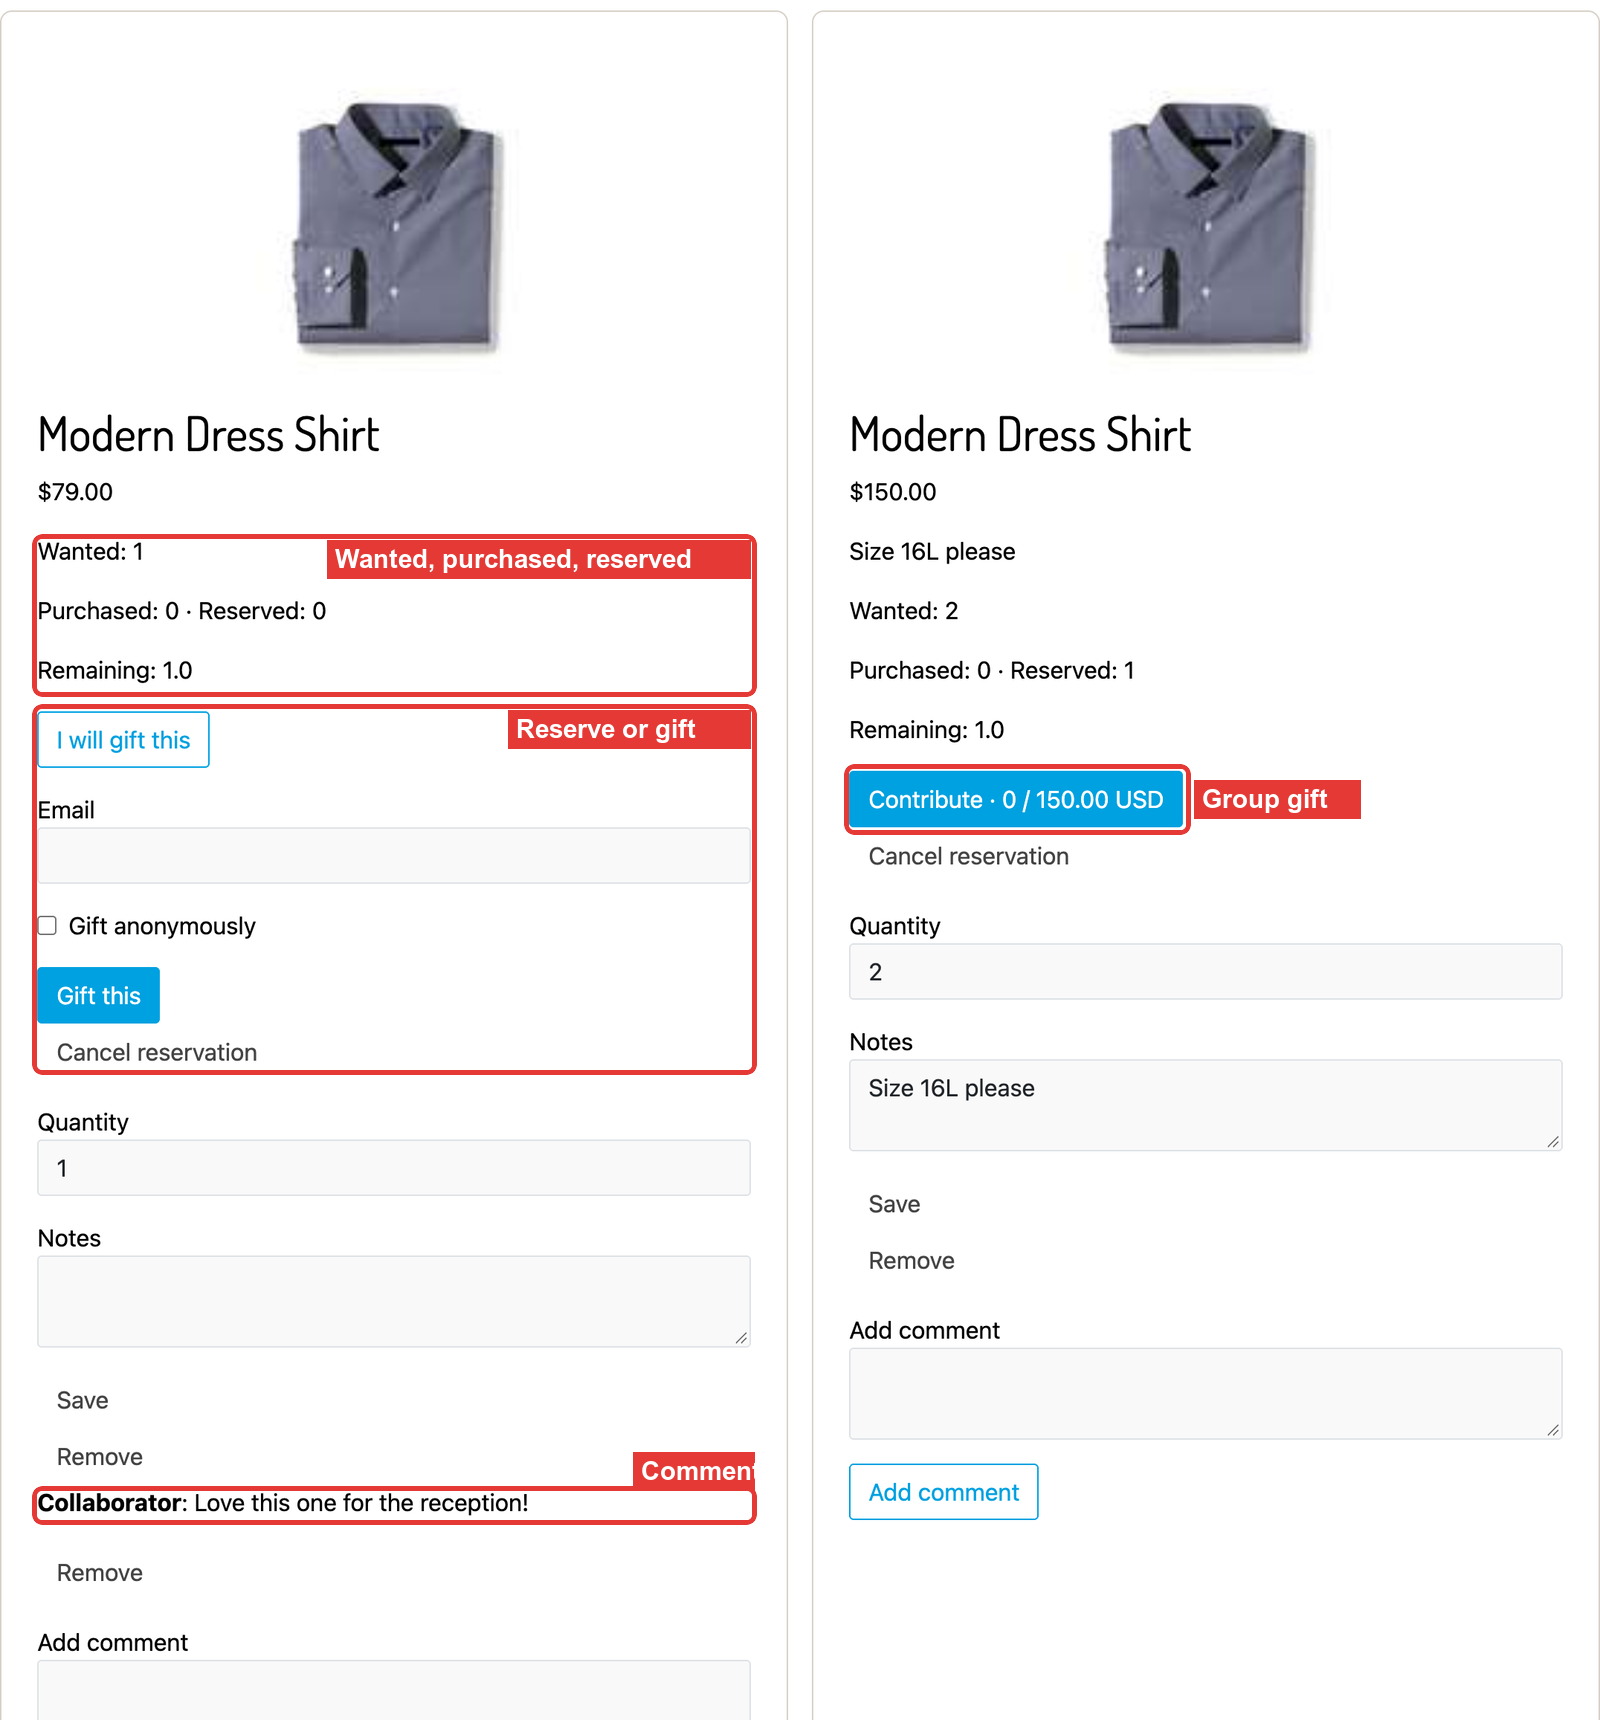
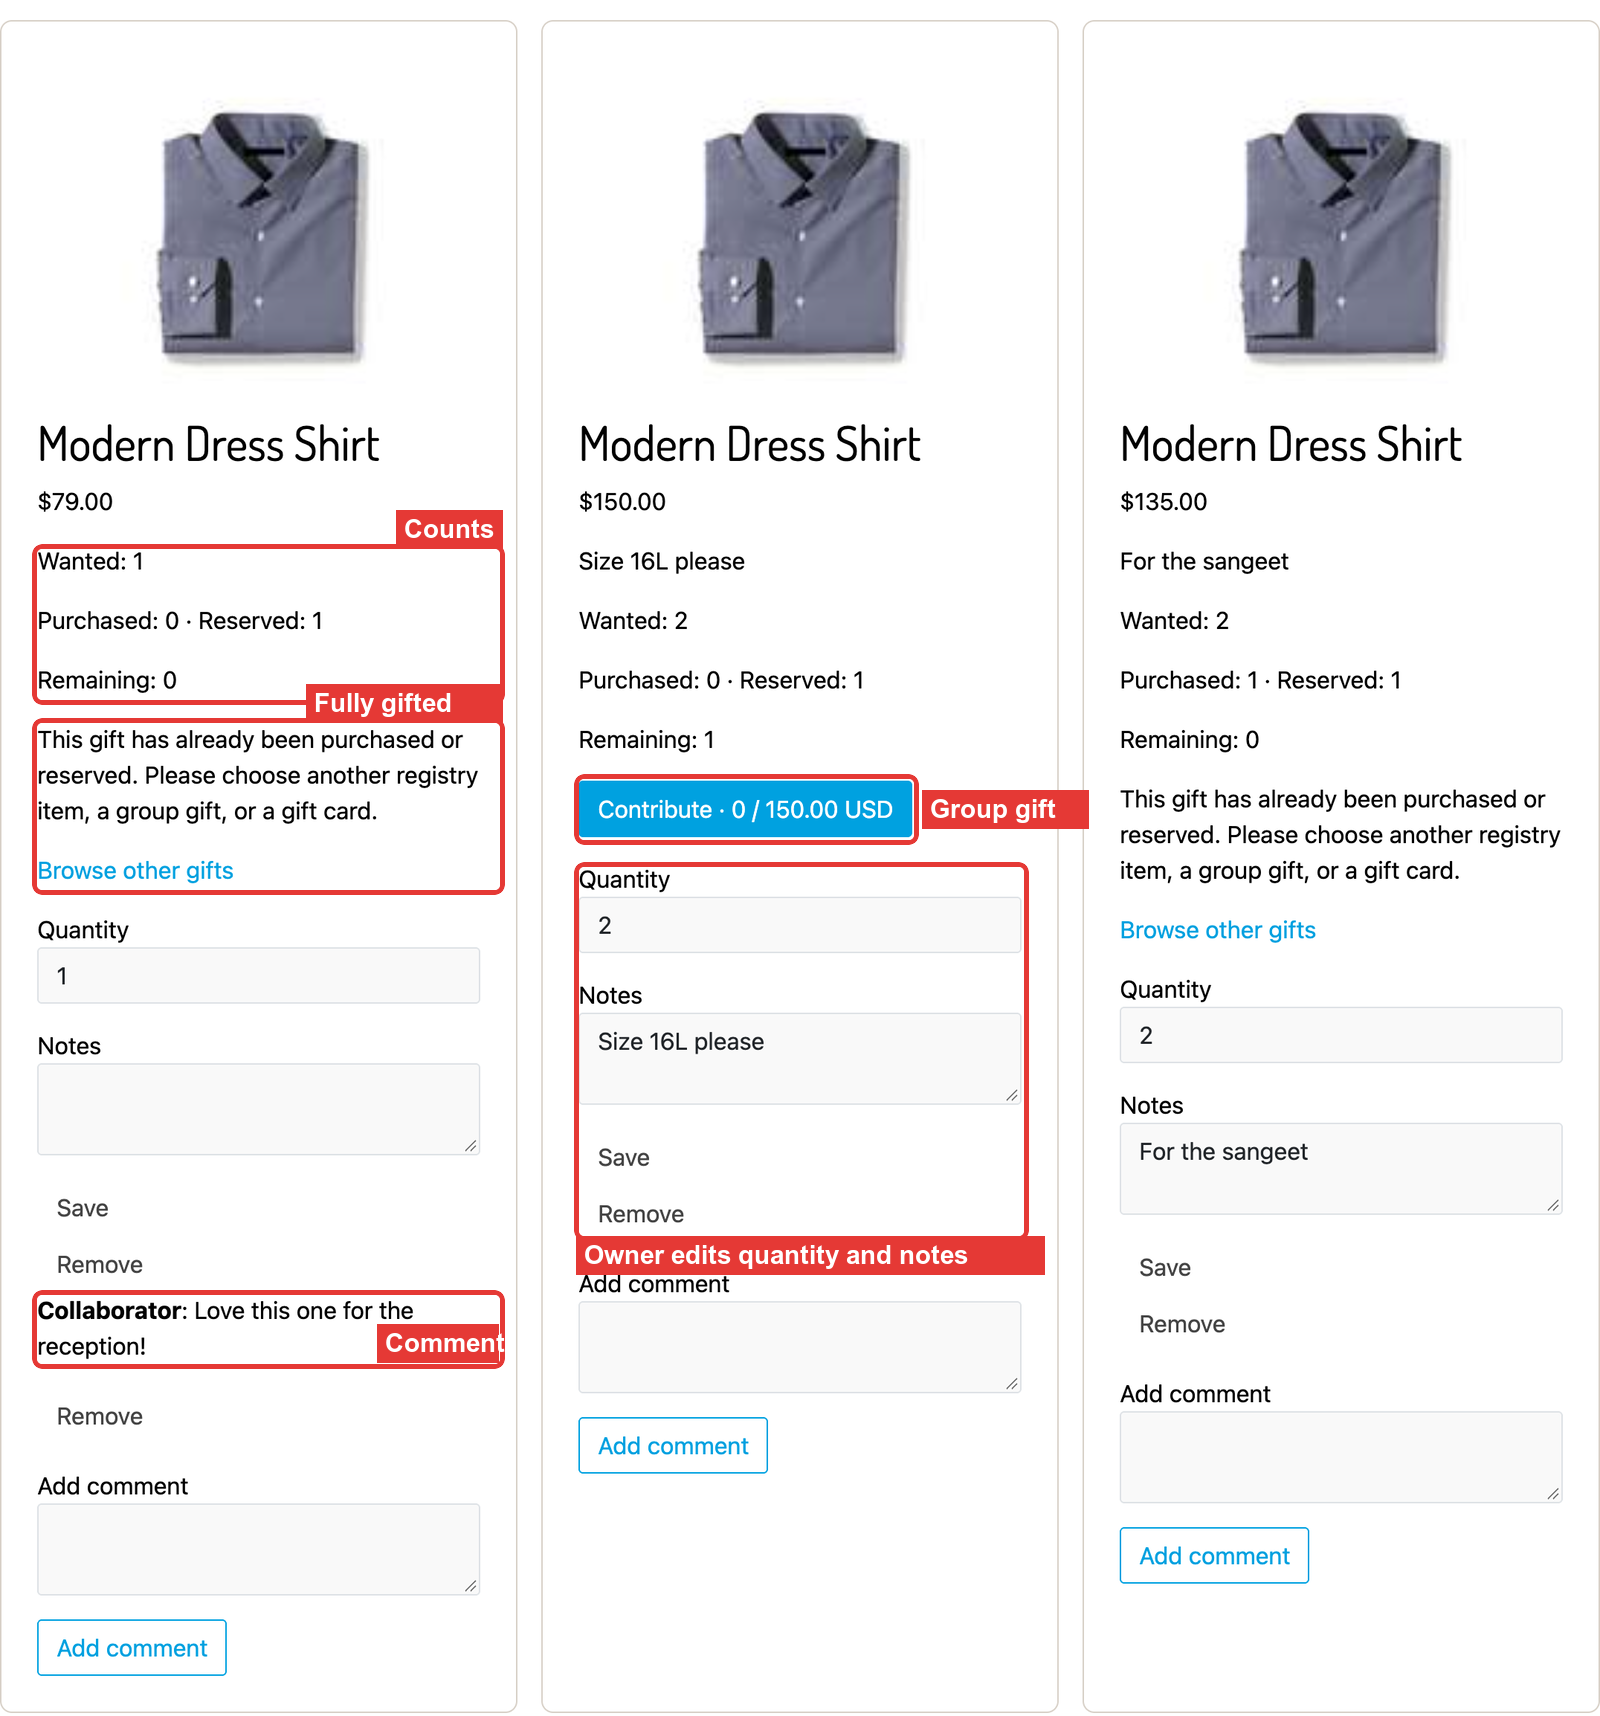
docs: refresh screenshots and verification after the display fixes

diff --git a/README.md b/README.md
@@ -113,7 +113,8 @@ what was asked for.
    ![Add the selected variant to a registry](cartridges/plugin_socialgifting/docs/screenshots/pdp-add-to-registry.png)
 
 2. Owners can also add by product ID from the registry page, with quantity, notes and group gifting.
-   Each item card shows wanted, purchased, reserved and remaining quantities.
+   Each item card shows wanted, purchased, reserved and remaining quantities, and owners edit quantity
+   and notes in place.
 
    ![Registry items for the owner](cartridges/plugin_socialgifting/docs/screenshots/registry-owner-items.png)
 
@@ -125,7 +126,8 @@ limited to owners and editors.
 ### 4. Public registry page
 
 **What it does.** Guests open the registry by its URL and see items with live availability, without
-any owner controls.
+any owner controls. Items that are fully purchased or reserved say so and link to other gifts instead
+of offering gift buttons.
 
 ![Public registry page for a guest](cartridges/plugin_socialgifting/docs/screenshots/registry-guest-view.png)
 
@@ -143,7 +145,7 @@ registry stops anyone else from taking the same unit.
 
    ![Item reserved by a guest](cartridges/plugin_socialgifting/docs/screenshots/registry-reserved.png)
 
-2. Another visitor trying to reserve or buy the same unit is refused.
+2. If two visitors try for the same last unit at the same moment, the second one is refused.
 
    ![Second gifting of the same unit refused](cartridges/plugin_socialgifting/docs/screenshots/registry-double-gift-blocked.png)
 
@@ -248,8 +250,8 @@ shown to them.
 
 ![Registry activity trail](cartridges/plugin_socialgifting/docs/screenshots/registry-activity.png)
 
-Entries are generic event codes with timestamps; they never include donor names, items bought in
-secret mode, or addresses.
+Entries are short generic labels in the shopper's local time; they never include donor names, items
+bought in secret mode, or addresses.
 
 ## Setup
 

diff --git a/cartridges/plugin_socialgifting/docs/verification.md b/cartridges/plugin_socialgifting/docs/verification.md
@@ -40,12 +40,13 @@ Flows were driven in headless Chrome; screenshots are in the [feature guide](../
 - **Add to Cart failed site-wide** while the cartridge was on the path without its metadata
   (`Unknown dynamic property 'sgContributionKey'`). This is the documented install order: import the
   metadata first.
-
-## Observed, not changed
-
-- Counts on My Registries and remaining quantities are printed with a decimal (`3.0 items`, `Remaining: 1.0`).
-- The poll title field is labelled "Registry name".
-- Poll results are not visible to the voter unless "Show results before closing" is set.
+- **Fully gifted items still offered gift buttons, and every visitor saw "Cancel reservation".**
+  ISML treats an empty string as true, so an empty reservation key passed `isif`. The conditions now
+  use explicit booleans. The server already refused these actions; now the page matches.
+- **Display fixes:** counts printed as decimals (`3.0 items`, `Remaining: 1.0`); dates printed as raw
+  ISO timestamps; activity entries showed internal codes (`GROUP_GIFT_CREATED`); the dashboard showed
+  `ACTIVE`; the poll question field was labelled "Registry name". Counts are whole numbers, dates are
+  shown in the shopper's local time, and activity, status and the poll label use readable text.
 
 ## Not verified
 
